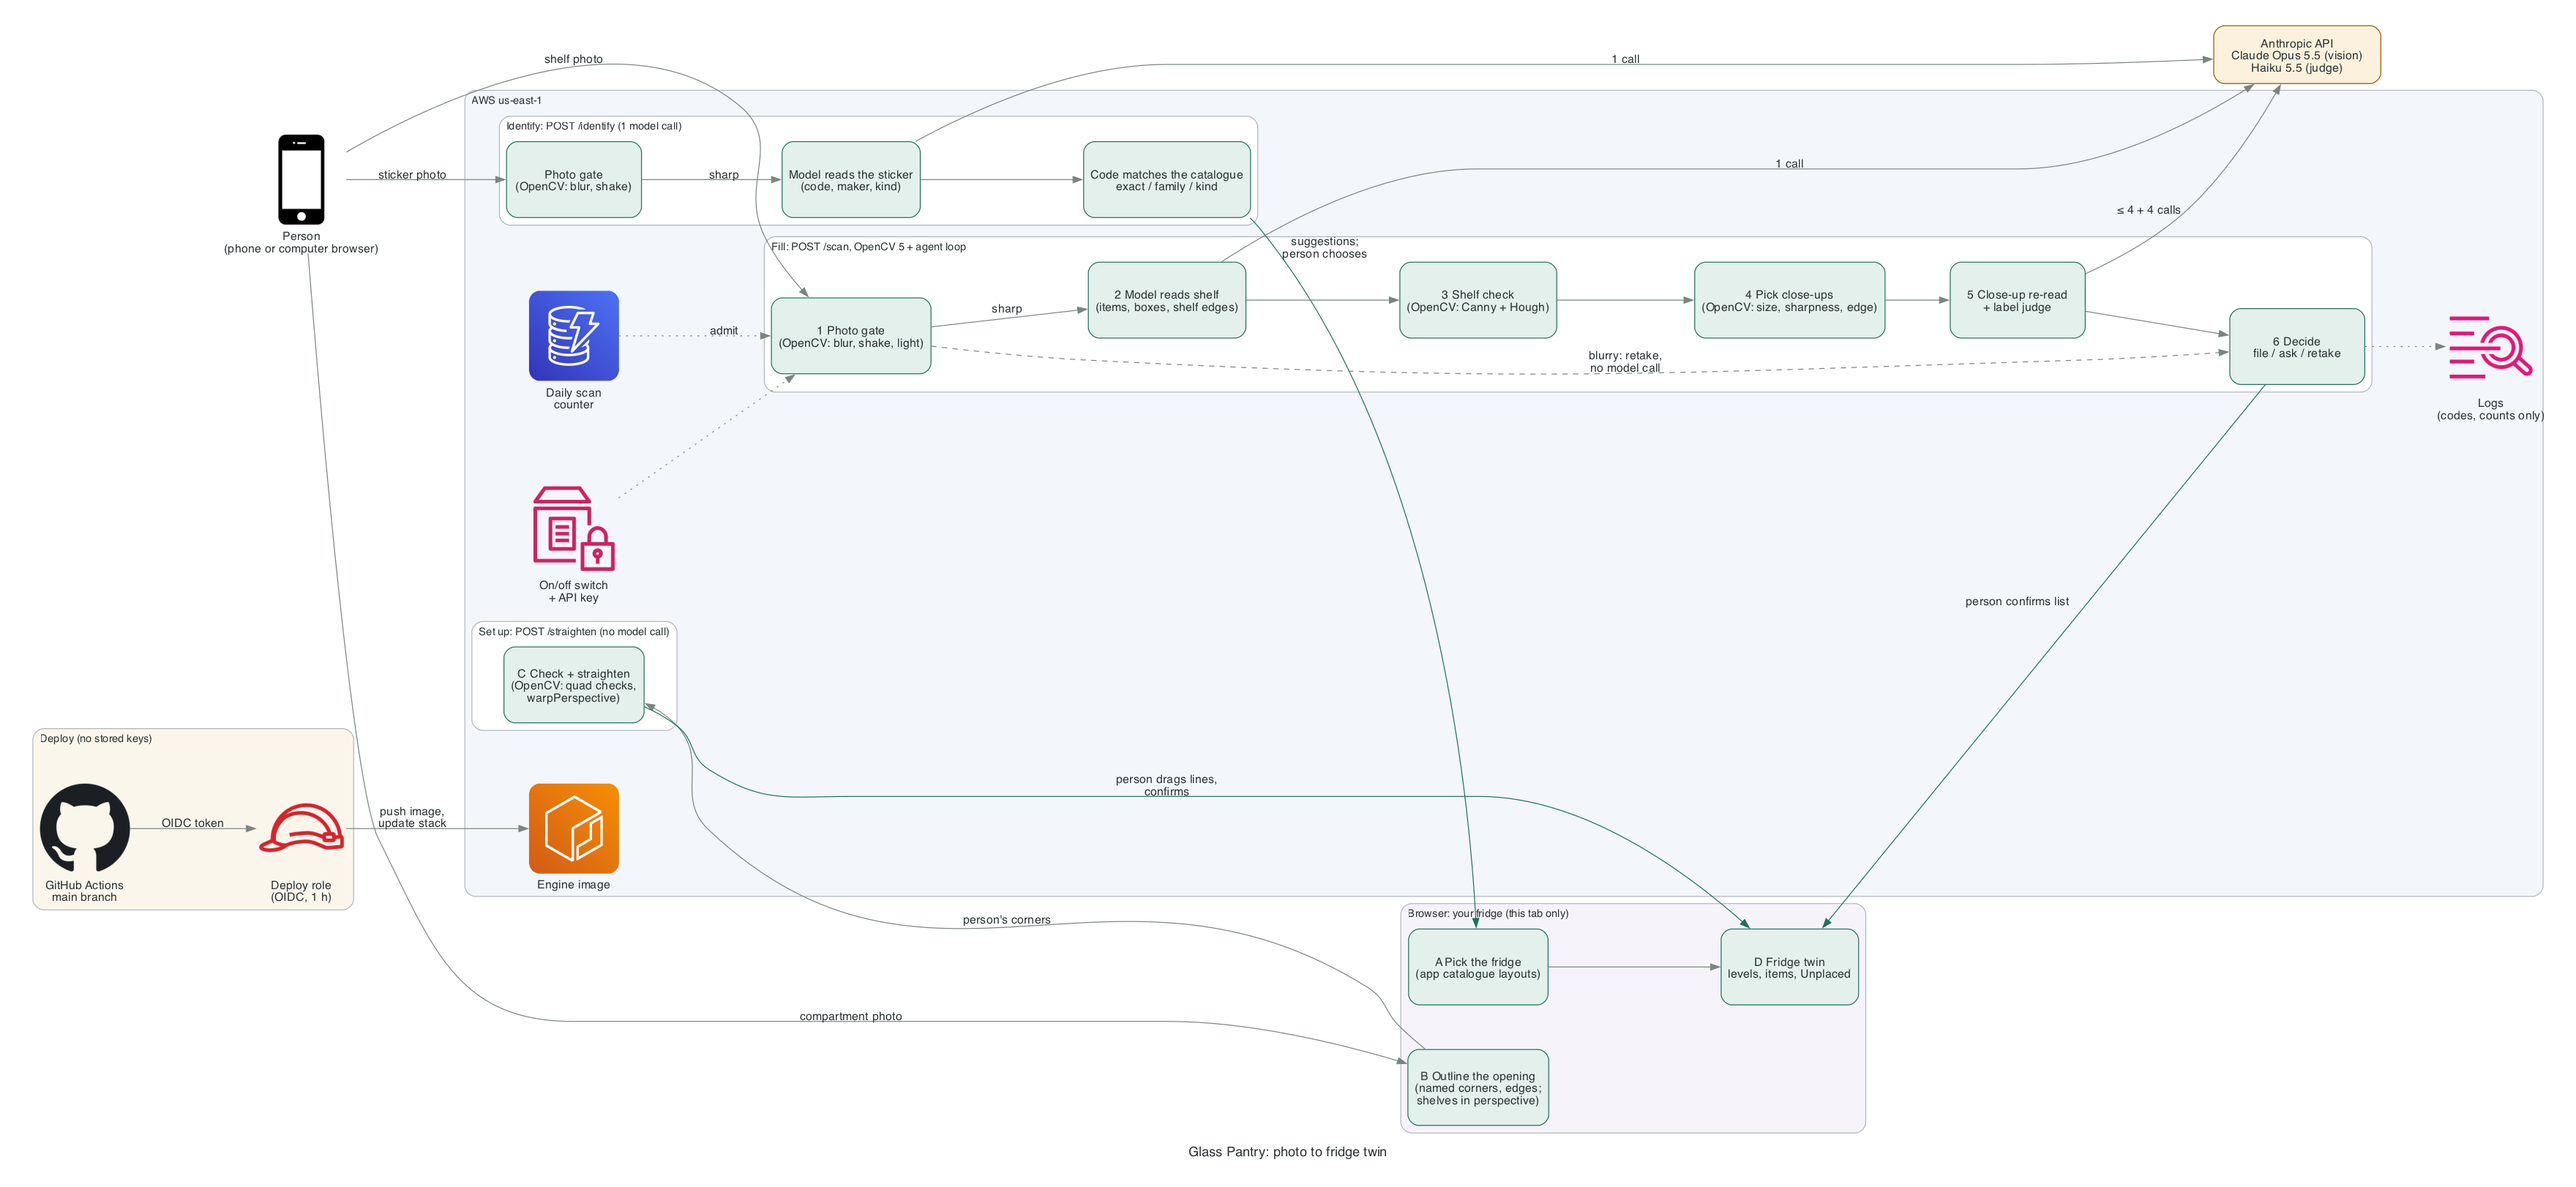
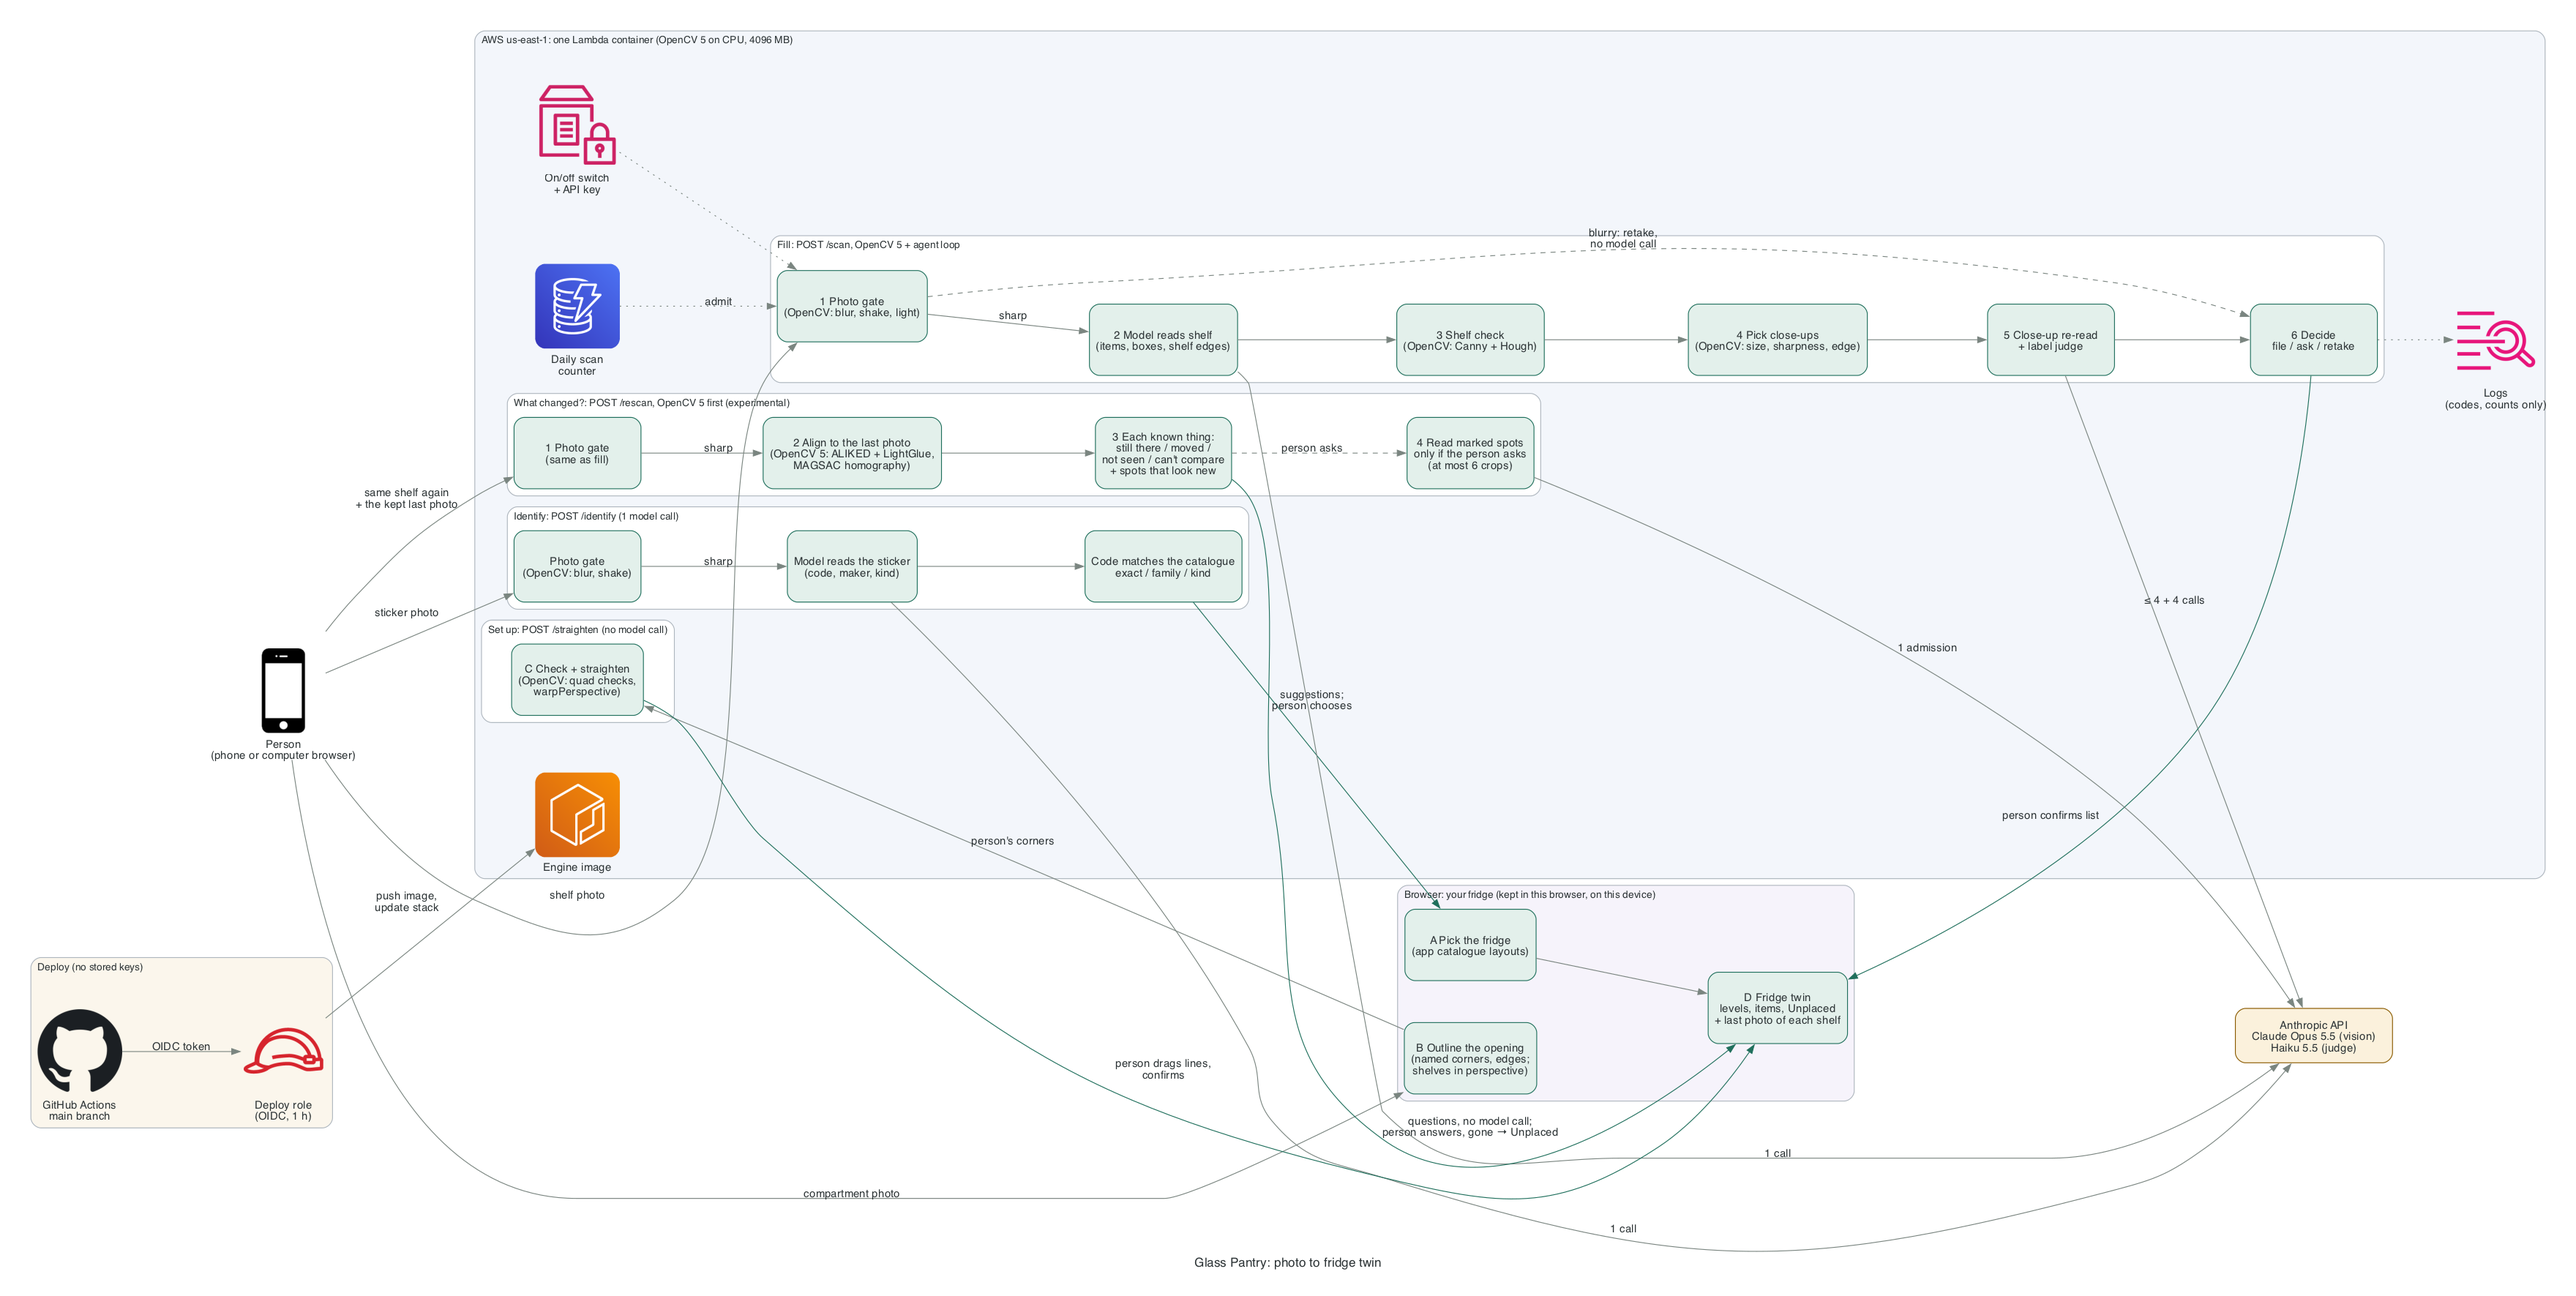
Docs current with v6: architecture diagram draws the What changed? route and on-device storage; report, pipeline and README describe the app's item models, photo faces, the change played in 3D, the match-line display and local storage with Forget

diff --git a/docs/architecture/architecture.py b/docs/architecture/architecture.py
@@ -27,13 +27,13 @@ with Diagram("Glass Pantry: photo to fridge twin", filename="docs/architecture/a
              direction="LR", graph_attr=G, node_attr=N, edge_attr=E):
     person = Mobile("Person\n(phone or computer browser)")
 
-    with Cluster("Browser: your fridge (this tab only)", graph_attr={"bgcolor": "#f6f3fb", "fontname": "Helvetica"}):
+    with Cluster("Browser: your fridge (kept in this browser, on this device)", graph_attr={"bgcolor": "#f6f3fb", "fontname": "Helvetica"}):
         pick = step("A Pick the fridge\n(app catalogue layouts)")
         outline = step("B Outline the opening\n(named corners, edges;\nshelves in perspective)")
-        twin = step("D Fridge twin\nlevels, items, Unplaced")
+        twin = step("D Fridge twin\nlevels, items, Unplaced\n+ last photo of each shelf")
         pick >> twin
 
-    with Cluster("AWS us-east-1", graph_attr={"bgcolor": "#f3f6fb", "fontname": "Helvetica"}):
+    with Cluster("AWS us-east-1: one Lambda container (OpenCV 5 on CPU, 4096 MB)", graph_attr={"bgcolor": "#f3f6fb", "fontname": "Helvetica"}):
         with Cluster("Identify: POST /identify (1 model call)", graph_attr={"bgcolor": "#ffffff"}):
             igate = step("Photo gate\n(OpenCV: blur, shake)")
             iread = step("Model reads the sticker\n(code, maker, kind)")
@@ -50,6 +50,12 @@ with Diagram("Glass Pantry: photo to fridge twin", filename="docs/architecture/a
             decide = step("6 Decide\nfile / ask / retake")
             gate >> Edge(label="sharp") >> read >> planes >> zsel >> zread >> decide
             gate >> Edge(label="blurry: retake,\nno model call", style="dashed") >> decide
+        with Cluster("What changed?: POST /rescan, OpenCV 5 first (experimental)", graph_attr={"bgcolor": "#ffffff"}):
+            rgate = step("1 Photo gate\n(same as fill)")
+            align = step("2 Align to the last photo\n(OpenCV 5: ALIKED + LightGlue,\nMAGSAC homography)")
+            judge = step("3 Each known thing:\nstill there / moved /\nnot seen / can't compare\n+ spots that look new")
+            rread = step("4 Read marked spots\nonly if the person asks\n(at most 6 crops)")
+            rgate >> Edge(label="sharp") >> align >> judge >> Edge(label="person asks", style="dashed") >> rread
         counter = Dynamodb("Daily scan\ncounter")
         params = SystemsManagerParameterStore("On/off switch\n+ API key")
         logs = CloudwatchLogs("Logs\n(codes, counts only)")
@@ -69,6 +75,9 @@ with Diagram("Glass Pantry: photo to fridge twin", filename="docs/architecture/a
     warp >> Edge(label="person drags lines,\nconfirms", color="#1f6f5c") >> twin
     person >> Edge(label="shelf photo") >> gate
     decide >> Edge(label="person confirms list", color="#1f6f5c") >> twin
+    person >> Edge(label="same shelf again\n+ the kept last photo") >> rgate
+    judge >> Edge(label="questions, no model call;\nperson answers, gone → Unplaced", color="#1f6f5c") >> twin
+    rread >> Edge(label="1 admission") >> claude
     params >> Edge(style="dotted") >> gate
     counter >> Edge(label="admit", style="dotted") >> gate
     read >> Edge(label="1 call") >> claude

diff --git a/docs/report.md b/docs/report.md
@@ -22,8 +22,9 @@ benefit and usability have not been measured.
 
 ## 3. What it does
 The page follows the app's steps (docs/pipeline.md): **pick the fridge** → **trace each compartment over a photo** →
-**fill each shelf or drawer from its own photo**. A person confirms every layout and every list; the fridge is kept
-in the browser tab only (session storage). The browser prototype supports catalogue appliances; cupboards, pantries
+**fill each shelf or drawer from its own photo**. A person confirms every layout and every list; the fridge, and the last photo of each shelf, are kept
+in this browser on this device (local storage), never on the server. One tab writes at a time (Web Locks; another tab
+opens read-only), and a Forget button removes both; a browser without Web Locks keeps the fridge in that tab only. The browser prototype supports catalogue appliances; cupboards, pantries
 and nested containers are future work.
 
 **Picking the fridge (one model call).** The person photographs the model sticker or the fridge. OpenCV's photo
@@ -50,10 +51,14 @@ draws nothing of its own. A removed shelf's things move to "Unplaced"; nothing i
 cannot be framed may be traced unstraightened and is labelled unverified; even then an outline the lines cannot be
 drawn through (crossed corners, a corner on the diagonal, under 5% of the photo) is refused.
 
-**Seeing the fridge in 3D (no model call).** The web 3D view draws live compartment shelves and drawers and their
-placed items as schematic boxes or cylinders (three.js). The shelf photo's item boxes guide horizontal position,
-width and height, clamped to stay inside the item's own level; depth is approximate, not reconstructed or measured.
-Older rows without placement are spread evenly. Door bins, retired levels and Unplaced things are not drawn in 3D.
+**Seeing the fridge in 3D (no model call).** The web 3D view (three.js) draws live compartment shelves and drawers and
+their things. A thing whose reading names a row of the phone app's item library (52 baked models, matched by the app's
+own rule: the longest match word wins) is drawn with that model at its catalogue size, scaled down only to fit its
+level; any other thing is a basic box or cylinder carrying its own crop from the shelf photo on the front. The shelf
+photo's item boxes guide horizontal position and size; depth comes from where the thing's foot stands in the photo,
+and is approximate, not reconstructed or measured. Older rows without placement are spread evenly. After a confirmed
+*What changed?*, the view glides to that shelf and plays the change: gone things fade out, moved things slide, new
+things drop in. Door bins, retired levels and Unplaced things are not drawn in 3D.
 The geometry is a pure function of the twin (`web/scene.js`, tested on all 16 layouts) and never changes the twin.
 
 **Filling a level.** One shelf photo goes through an agent loop in which OpenCV measurements gate the model call,
@@ -103,18 +108,20 @@ still include a neighbour's things, and the person reviews the list as before. T
 offered again on the next photo of that shelf.
 
 **What changed? (experimental).** After a shelf has been filed, its photo (long edge at most 1568 px) and item boxes are kept
-in the tab beside the fridge. A later photo of the same shelf is first compared by OpenCV alone, with no model call:
+in the browser beside the fridge. A later photo of the same shelf is first compared by OpenCV alone, with no model call:
 each known item is *no visible change*, *possible change*, *moved* or *cannot compare*, and regions with something
 new are marked. Only then may the person ask the model to read the marked spots (one admission, at most 6 crops).
+The page shows the result as the last photo above the new one, joined by up to 60 of the matched point
+pairs the alignment kept (display only), with each thing boxed by its outcome and one sentence of what OpenCV did.
 Apply moves things that are gone to Unplaced (never deleted), adds the ticked new rows and updates moved things'
 place in the 3D view. It failed its pre-set bar (§6) and is labelled experimental on the page.
 
 ![Architecture: browser, AWS Lambda with OpenCV 5, Anthropic API](architecture/architecture.png)
 
-The browser holds the fridge (session storage) and draws it. The picture shows the scan, identify and straighten
-paths: the Lambda container receives one photo per request, keeps it in memory only for that request, runs the
-OpenCV steps, and calls the Anthropic API. *What changed?* (`POST /rescan`) is a second route not drawn there: it
-receives two photos (the last confirmed one, kept in the tab, and the new one), also only in memory. Its first pass
+The browser holds the fridge (local storage, this device) and draws it. The picture shows all four routes: for
+scan, identify and straighten the Lambda container receives one photo per request, keeps it in memory only for that
+request, runs the OpenCV steps, and calls the Anthropic API. *What changed?* (`POST /rescan`) receives two photos (the
+last confirmed one, kept in the browser, and the new one), also only in memory. Its first pass
 is OpenCV only, with no admission and no model call; the optional reading of the marked spots takes one admission,
 and only when a spot is actually read. A shelf scan or a
 fridge identification takes one admission from the DynamoDB daily counter before any model call (identify's quality
@@ -251,8 +258,9 @@ pairs, align ≥ 5 of 7; flag every removed item; find every added item; ≤ 1 f
 - The label judge is a model too. It can call two different products "the same" (we saw a misread brand judged
   equal to the real one).
 - Browser uploads are reduced to 3024 px; development runs used full-resolution files.
-- The 3D view is schematic (approximate depth, no door bins) and needs WebGL and a CDN (three.js 0.160.0); if it
-  cannot load, the 2D drawing stays.
+- The 3D view is approximate (depth from the photo, sizes from the library or the photo, no door bins) and needs
+  WebGL and a CDN (three.js 0.160.0); if it cannot load, the 2D drawing stays. Library models match by words in the
+  reading, so a container named for its look (a lidded tub) may get a generic tub model.
 - **What changed?** failed its pre-set bar on false flags (§6). Things leaning on or hidden behind a removed item
   look changed and are asked about; soft packs that shift do too. It compares one plane (a homography), so strong
   parallax between the two photos raises questions. Items the first reading never listed are not tracked. The band

diff --git a/README.md b/README.md
@@ -5,7 +5,8 @@ fridge from its model sticker, trace each compartment over a photo, then photogr
 model (Claude) lists what it sees. OpenCV 5 gates the photo, checks the model's shelf lines against real edges,
 straightens traced openings, and selects small labels for a re-read from the uploaded image (the browser sends at
 most 3024 px, cut to the shelf the person marks). The engine recommends **file**, **ask** or **retake**; a person
-confirms before anything is kept. The fridge lives in the browser tab, drawn in 2D and 3D.
+confirms before anything is kept. The fridge lives in this browser on this device (never on the server), drawn in
+2D and in 3D with the phone app's own item models.
 
 When a shelf is photographed again, **What changed?** (experimental; it failed its pre-set bar, see the report)
 lines the new photo up with the last one using OpenCV 5's learned matching (ALIKED + LightGlue) and marks only what
@@ -59,7 +60,9 @@ logs that hold codes and counts only.
 | `verifier/opening.py` | outline checks and straightening (`warpPerspective`); suggestions built but off |
 | `service/handler.py` | the Lambda handler: pages, health, recorded example, scan, identify, straighten |
 | `web/fridge.html`, `web/twin.js` | the fridge page: pick, trace, fill; the browser twin and its rules |
-| `web/scene.js`, `web/twin3d.js` | the schematic 3D view (pure geometry; three.js drawing) |
+| `web/scene.js`, `web/twin3d.js` | the 3D view (pure geometry and library matching; three.js drawing, the change played on the shelf) |
+| `web/compare.js` | What changed? drawn: the two photos, OpenCV's matched pairs, the outcome boxes |
+| `web/items/`, `tools/export_items.py` | the phone app's 52 item models and match words, exported for the 3D view |
 | `web/home.html` | the front page (`/`): the idea, the steps, the measured results |
 | `web/index.html` | the single-shelf check (`/shelf`): upload, overlays, the list to confirm |
 | `tools/` | local runs, annotation of results, the evaluation diagnostic |

diff --git a/docs/pipeline.md b/docs/pipeline.md
@@ -35,14 +35,15 @@ Rules the page keeps (`web/fridge.html`):
 
 ## How items are drawn
 
-**Built (this web page):** a schematic 3D view. Each placed thing is a box or cylinder from a basic family (bottle,
-can, jar, carton, tub, tray, pouch, bag, box) chosen by the scan's vessel word; the shelf photo's item box guides
-horizontal position, width and height, clamped inside its own level; depth is approximate. Door bins, retired levels
-and Unplaced are not drawn in 3D (`web/scene.js`).
+**Built (this web page):** a library model when the reading matches a row of the app's item catalogue (the app's
+52 baked models, exported by `tools/export_items.py`; the app's longest-word rule; catalogue size, scaled down only to
+fit the level). Otherwise a box or cylinder from a basic family (bottle, can, jar, carton, tub, tray, pouch, bag, box)
+chosen by the scan's vessel word, with the thing's own photo crop on its front. The shelf photo's item box guides
+horizontal position and size; depth comes from where its foot stands in the photo (approximate). Door bins, retired
+levels and Unplaced are not drawn in 3D (`web/scene.js`).
 
-**Planned (phone app and later this page):** a library model when the item matches a row of the app's item catalogue;
-otherwise the nearest basic shape at the size the photo shows; the label taken from the photo by flattening a flat
-face with a homography. Per-product models are upgrades for common items, not a requirement.
+**Planned:** the label flattened from the photo with a homography onto a flat face; per-product models are upgrades
+for common items, not a requirement.
 
 ## Beyond the fridge
 
